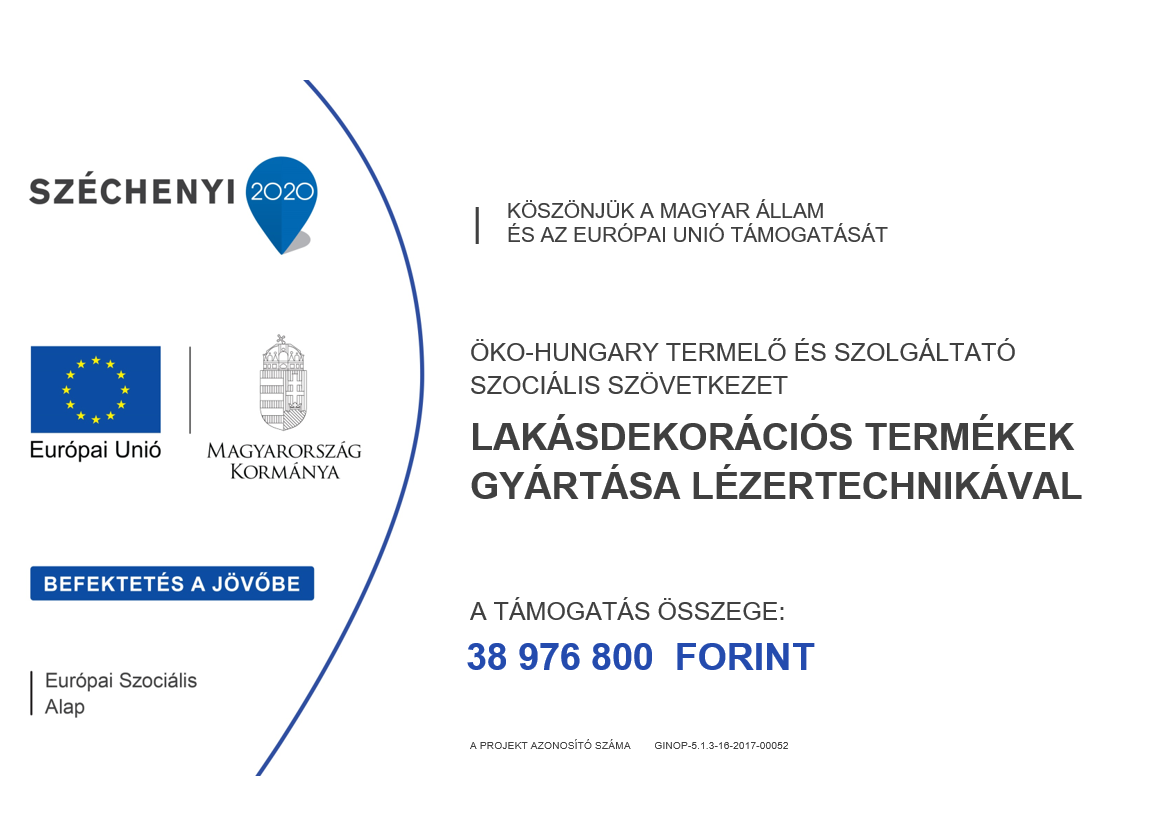
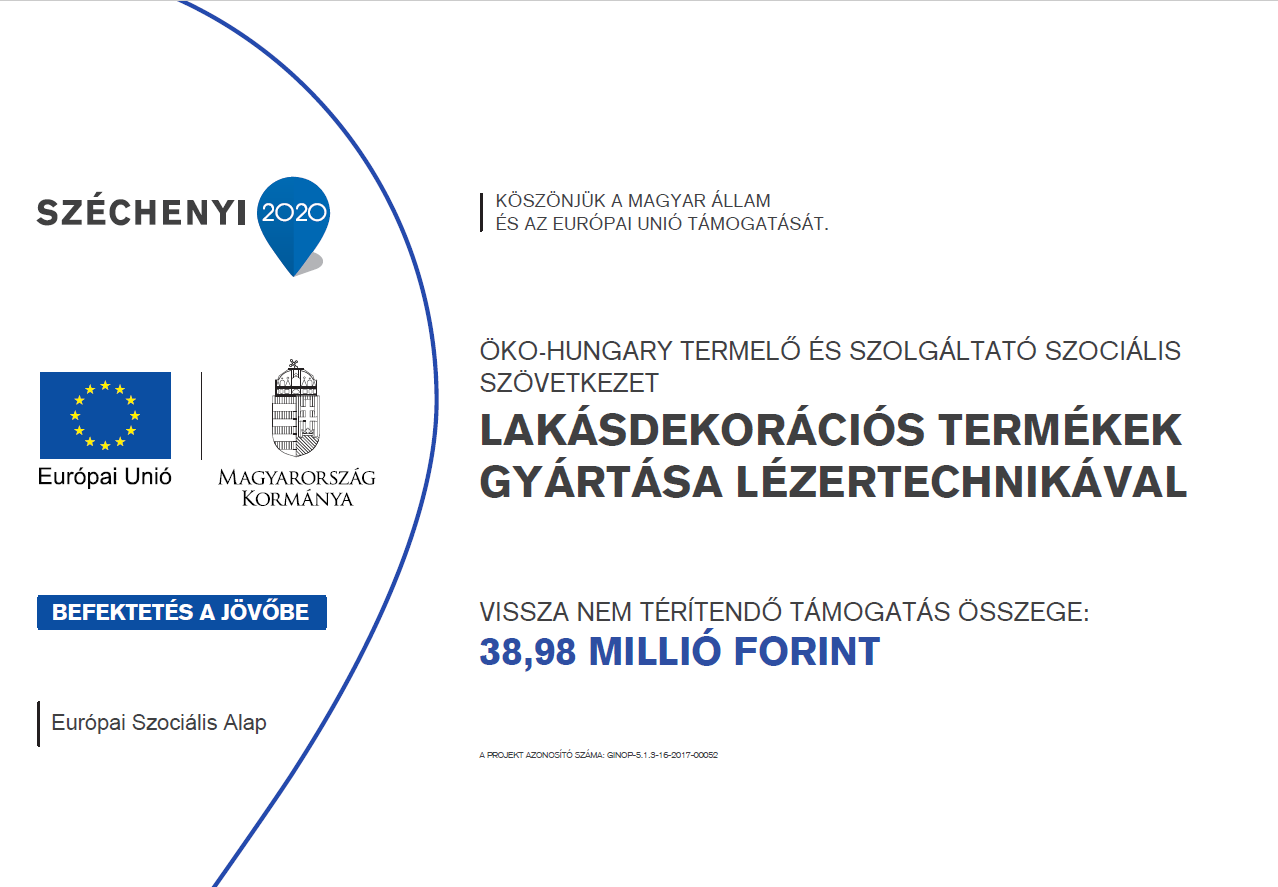
palyazat

diff --git a/palyazat.html b/palyazat.html
@@ -1,0 +1,8 @@
+---
+title: Pályázatunk
+description:
+lang: hu
+ref: palyazat
+---
+
+<p><img src="{{ site.baseurl }}/img/palyazat.png"></p>
